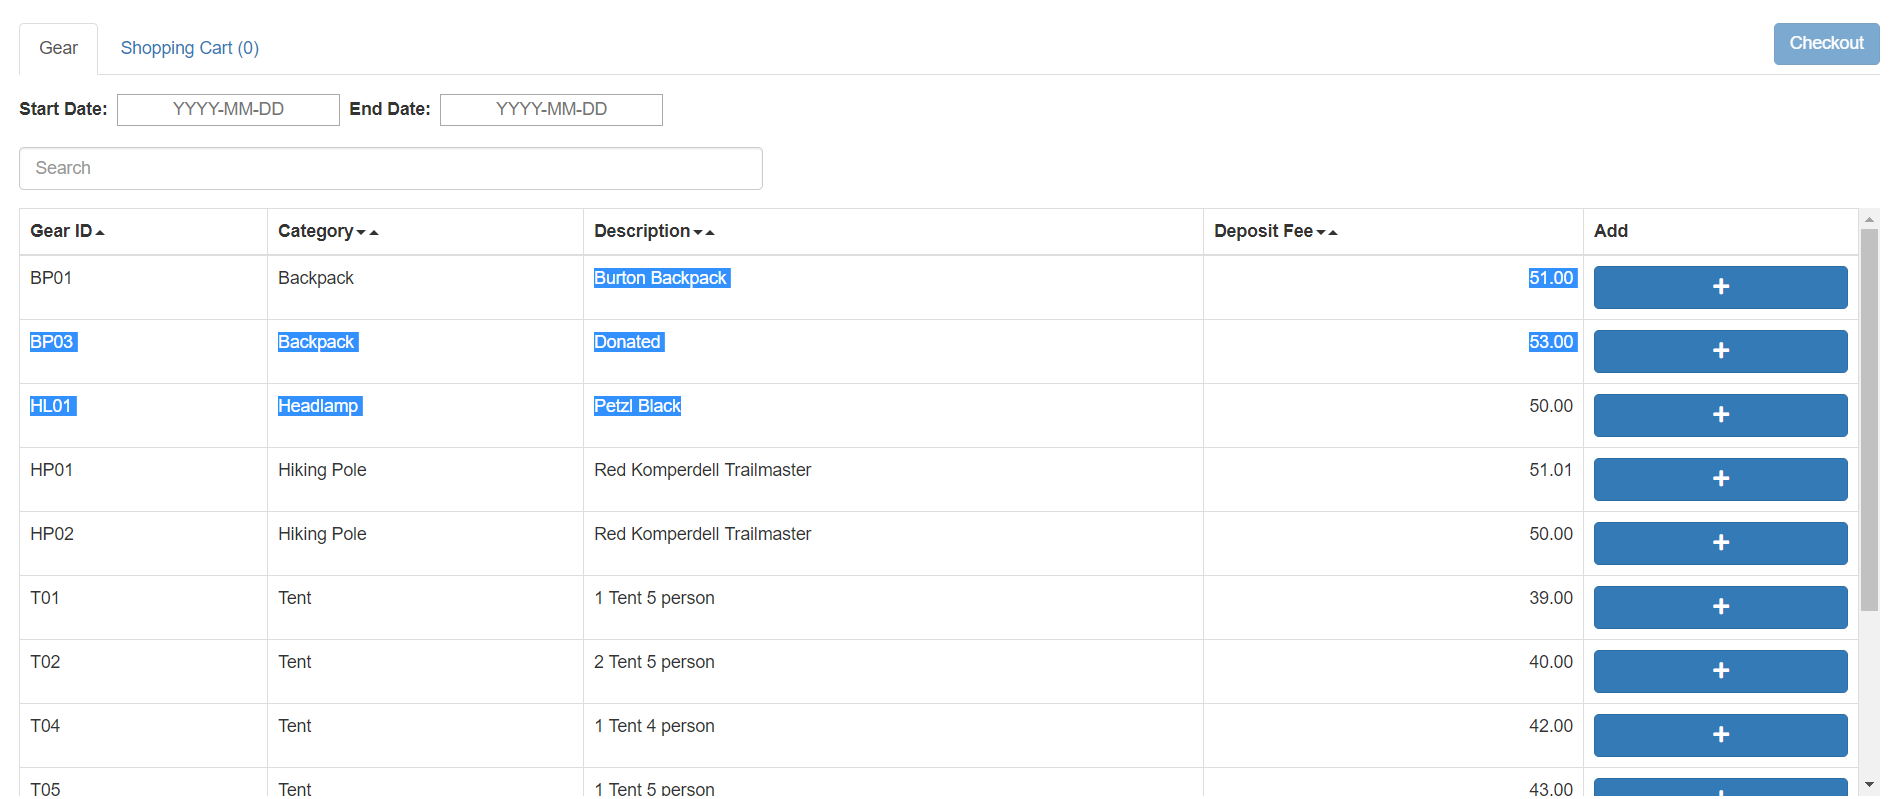
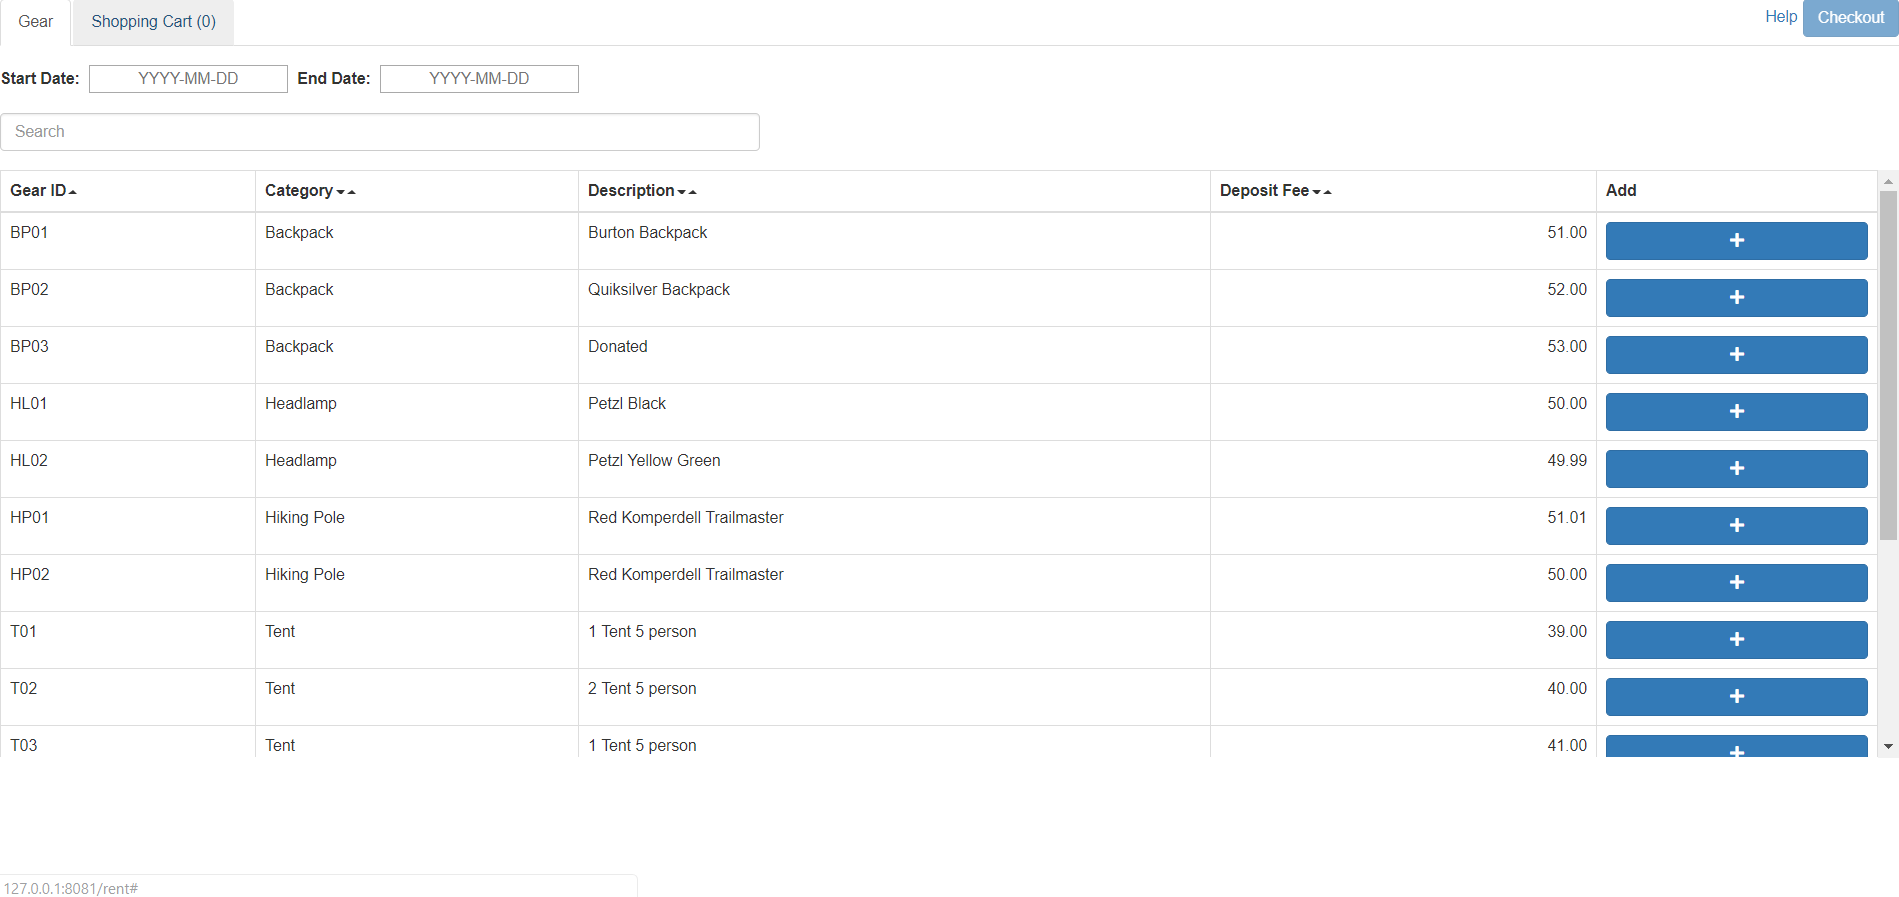
Help page finalizing (#420)
* Made help navigation side by side
* Updated Help Page
* Added member only help information
* Added tests for coverage

diff --git a/src/js/react/help/HelpPage.jsx b/src/js/react/help/HelpPage.jsx
@@ -1,6 +1,8 @@
 import React from "react";
+import Reflux from "reflux";
 import { Image, Nav, NavItem } from "react-bootstrap";
 import constants from "../../constants/constants";
+import { LoginStore } from "../login/LoginStore";
 
 function importAll(r) {
     const images = {};
@@ -10,7 +12,15 @@ function importAll(r) {
 
 const images = importAll(require.context("../../../images", true, /\.(png)$/));
 
-export default class HelpPage extends React.Component {
+export default class HelpPage extends Reflux.Component {
+    constructor(props) {
+        super(props);
+        this.store = LoginStore;
+
+        this.getRentHelp = this.getRentHelp.bind(this);
+        this.getPages = this.getPages.bind(this);
+    }
+
     static getGearHelp() {
         return (
             <div id={constants.help.gear}>
@@ -55,12 +65,31 @@ export default class HelpPage extends React.Component {
                         <Image responsive src={images["GearPage.png"]} />
                     </div>
                 </div>
+                <br />
+                <div className="row">
+                    <div className="col-md-6">
+                        From here you will also be able to edit the gear using the actions in the table. The edit action also allows you
+                        to view the gear history ie. if the deposit fee has changed.
+                    </div>
+                    <div className="col-md-6">
+                        <Image responsive src={images["EditGearForm.png"]} />
+                    </div>
+                </div>
+                <br />
+                <div className="row">
+                    <div className="col-md-6">
+                        All history pages are ordered from newest to oldest and only shows the last 10 changes.
+                    </div>
+                    <div className="col-md-6">
+                        <Image responsive src={images["GearReservationHistoryTable.png"]} />
+                    </div>
+                </div>
                 <hr />
             </div>
         );
     }
 
-    static getRentHelp() {
+    getRentHelp() {
         return (
             <div id={constants.help.rent}>
                 <h1> Rent Page </h1>
@@ -71,7 +100,13 @@ export default class HelpPage extends React.Component {
                         the date range inputs, text search, and column ordering.
                     </div>
                     <div className="col-md-6">
-                        <Image responsive src={images["ExecutiveRent.png"]} />
+                        {
+                            this.state.isAuthenticated
+                                ? <Image responsive
+                                    src={images["ExecutiveRent.png"]} />
+                                : <Image responsive
+                                    src={images["MemberRent.png"]} />
+                        }
                     </div>
                 </div>
                 <br />
@@ -81,7 +116,13 @@ export default class HelpPage extends React.Component {
                         button will open a form to input other details needed to create a reservation.
                     </div>
                     <div className="col-md-6">
-                        <Image responsive src={images["ExecutiveReservationForm.png"]} />
+                        {
+                            this.state.isAuthenticated
+                                ? <Image responsive
+                                    src={images["ExecutiveReservationForm.png"]} />
+                                : <Image responsive
+                                    src={images["MemberReservationForm.png"]} />
+                        }
                     </div>
                 </div>
                 <hr />
@@ -302,47 +343,43 @@ export default class HelpPage extends React.Component {
 
     static getNav() {
         return (
-            <div>
-                <Nav bsStyle="pills" stacked className="nav-help">
-                    <NavItem eventKey={1} href={`#${constants.help.introduction}`}>
+            <Nav bsStyle="pills" stacked className="nav-help">
+                <NavItem eventKey={1} href={`#${constants.help.introduction}`}>
                         Introduction
-                    </NavItem>
-                    <NavItem eventKey={2} href={`#${constants.help.gear}`}>
+                </NavItem>
+                <NavItem eventKey={2} href={`#${constants.help.gear}`}>
                         Gear Page
-                    </NavItem>
-                    <NavItem eventKey={2} href={`#${constants.help.rent}`}>
+                </NavItem>
+                <NavItem eventKey={2} href={`#${constants.help.rent}`}>
                         Rent Page
-                    </NavItem>
-                    <NavItem eventKey={2} href={`#${constants.help.reservation}`}>
+                </NavItem>
+                <NavItem eventKey={2} href={`#${constants.help.reservation}`}>
                         Reservation Page
-                    </NavItem>
-                    <NavItem eventKey={2} href={`#${constants.help.members}`}>
+                </NavItem>
+                <NavItem eventKey={2} href={`#${constants.help.members}`}>
                         Members Page
-                    </NavItem>
-                    <NavItem eventKey={2} href={`#${constants.help.disableSystem}`}>
+                </NavItem>
+                <NavItem eventKey={2} href={`#${constants.help.disableSystem}`}>
                         Disable System Page
-                    </NavItem>
-                    <NavItem eventKey={2} href={`#${constants.help.statistics}`}>
+                </NavItem>
+                <NavItem eventKey={2} href={`#${constants.help.statistics}`}>
                         Statistics Page
-                    </NavItem>
-                    <NavItem eventKey={2} href={`#${constants.help.systemVariables}`}>
+                </NavItem>
+                <NavItem eventKey={2} href={`#${constants.help.systemVariables}`}>
                         System Variables Page
-                    </NavItem>
-                    <NavItem eventKey={2} href={`#${constants.help.changePassword}`}>
+                </NavItem>
+                <NavItem eventKey={2} href={`#${constants.help.changePassword}`}>
                         Change Password Page
-                    </NavItem>
-                </Nav>
-            </div>
+                </NavItem>
+            </Nav>
         );
     }
 
-    render() {
-        return (
-            <div className="help-page">
-                <div id={constants.help.introduction}
-                    className="content-container col-sm-6 col-sm-offset-3 col-md-6 col-md-offset-3">
-                    {HelpPage.getNav()}
-                    <h1> Introduction </h1>
+    getPages() {
+        if (this.state.isAuthenticated) {
+            return (
+                <div className="content-container col-md-6">
+                    <h1 id={constants.help.introduction}> Introduction </h1>
                     <p>
                         This is the University of Alberta Outdoors Club
                         management system. Admins and Executives
@@ -353,13 +390,33 @@ export default class HelpPage extends React.Component {
                         functionalities of the system.
                     </p>
                     {HelpPage.getGearHelp()}
-                    {HelpPage.getRentHelp()}
+                    {this.getRentHelp()}
                     {HelpPage.getReservationHelp()}
                     {HelpPage.getMembersHelp()}
                     {HelpPage.getDisableSystemHelp()}
                     {HelpPage.getStatisticsHelp()}
                     {HelpPage.getSystemVariablesHelp()}
                     {HelpPage.getChangePasswordHelp()}
+                </div>
+            );
+        } else {
+            return (
+                <div>
+                    {this.getRentHelp()}
+                </div>
+            );
+        }
+    }
+
+    render() {
+        return (
+            <div className="help-page">
+                <div className="row flex">
+                    <div className="col-sm-offset-1 col-md-2">
+                        {this.state.isAuthenticated ? HelpPage.getNav() : null}
+                    </div>
+                    {this.getPages()}
+                    <div className="col-md-1" />
                 </div>
             </div>
         );

diff --git a/src/js/react/gear/RentPage.jsx b/src/js/react/gear/RentPage.jsx
@@ -14,6 +14,7 @@ import { Button, ControlLabel, Tab, Tabs } from "react-bootstrap";
 import ButtonModalForm from "../components/ButtonModalForm";
 import DateRangePicker from "../components/DateRangePicker";
 import { ToastContainer } from "react-toastify";
+import { Link } from "react-router-dom";
 
 export default class RentPage extends Reflux.Component {
     constructor() {
@@ -99,13 +100,19 @@ export default class RentPage extends Reflux.Component {
                     show={this.state.error}
                     errorMessage={this.state.errorMessage}
                 />
-                <Button
-                    className="btn btn-primary pull-right "
-                    disabled={this.state.checkoutDisabled}
-                    onClick={GearActions.openReserveGearForm}
-                >
+                <div className="pull-right">
+                    <Link to="/member-help">
+                        Help
+                    </Link>
+                    <div className="divider" />
+                    <Button
+                        className="btn btn-primary"
+                        disabled={this.state.checkoutDisabled}
+                        onClick={GearActions.openReserveGearForm}
+                    >
                     Checkout
-                </Button>
+                    </Button>
+                </div>
                 <ButtonModalForm
                     disableSubmit={this.getCheckoutDisabled(this.state.reserveGearForm, this.state.shoppingList)}
                     formTitle="Reservation Form"

diff --git a/src/js/test/unit/react/help/HelpPageTest.js b/src/js/test/unit/react/help/HelpPageTest.js
@@ -2,14 +2,27 @@ import React from "react";
 import { expect } from "chai";
 import HelpPage from "react/help/HelpPage";
 import constants from "../../../../constants/constants";
+import sinon from "sinon";
+import {shallow} from "enzyme";
 
 describe("Help Page Tests", () => {
     it("gear page help renders correct information", () => {
         expect(HelpPage.getGearHelp().props.id).to.equal(constants.help.gear)
     });
 
-    it("rent page help renders correct information", () => {
-        expect(HelpPage.getRentHelp().props.id).to.equal(constants.help.rent)
+    it("rent page help renders correct info - member", () => {
+        const page = shallow(<HelpPage />);
+
+        expect(page.instance().getRentHelp().props.id).to.equal("rent-page")
+
+    });
+
+    it("rent page help renders correct info - exec", () => {
+        const page = shallow(<HelpPage />);
+
+        page.instance().state.isAuthenticated = true;
+        expect(page.instance().getRentHelp().props.id).to.equal("rent-page")
+
     });
 
     it("reservation page help renders correct information", () => {

diff --git a/src/scss/main.scss b/src/scss/main.scss
@@ -8,6 +8,10 @@
 .help-page {
     text-align: left;
 
+    .flex {
+        display: inline-flex;
+    }
+
     .content-container {
         @media only screen and (max-width: 768px) {
             width:100%;
@@ -30,13 +34,17 @@
     }
 
   .nav-help{
-    width: 30%;
     @media only screen and (max-width: 768px) {
           width:70%;
       }
   }
 }
 
+.divider{
+    width:5px;
+    height:auto;
+    display:inline-block;
+}
 
 .file-button {
     input {

diff --git a/src/js/react/App.jsx b/src/js/react/App.jsx
@@ -46,6 +46,7 @@ export default class App extends Reflux.Component {
                     <Route path="/statistics" component={withAuth(StatisticsPage)} />
                     <Route path="/disable" component={withAuth(DisableSystemPage)} />
                     <Route path="/help" component={withAuth(HelpPage)} />
+                    <Route path="/member-help" component={HelpPage} />
                 </Switch>
             </BrowserRouter>
         );
